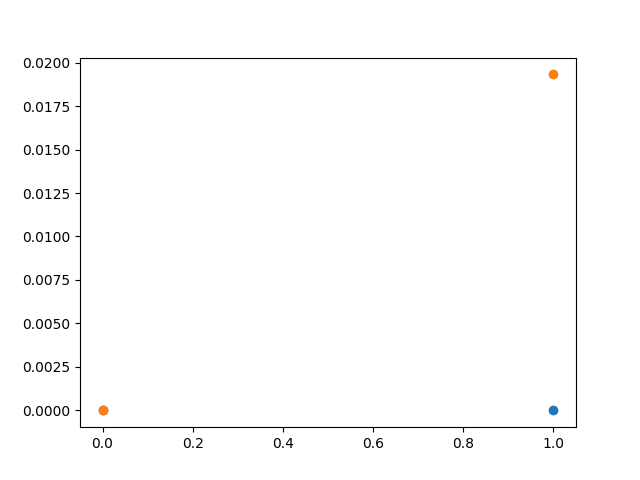
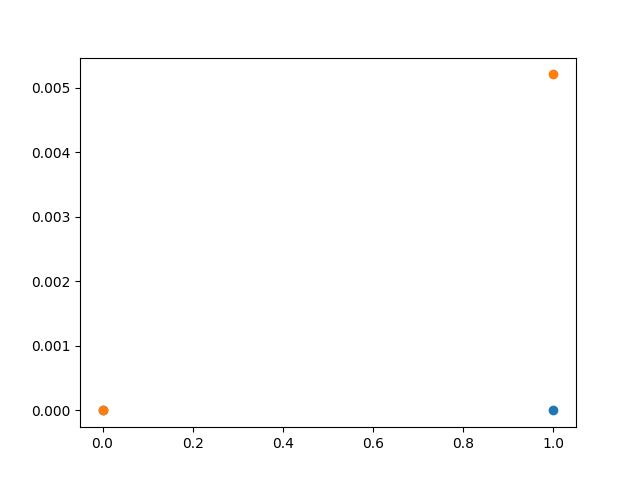
energy diff: at least imaginary part is 0

diff --git a/system.py b/system.py
@@ -193,14 +193,13 @@ class System():
         D_complex_energy+= self.A_integrals[index+index-i-j]*old_field_coeffs[i].conjugate()*old_field_coeffs[j].conjugate()*diff*diff
         D_complex_energy+= self.A_integrals[i+j-index-index]*old_field_coeffs[i]*old_field_coeffs[j]*diff.conjugate()*diff.conjugate()
       #1-variable sum parts
-      D_complex_energy += self.A_integrals[index+index-index-i]*old_field_coeffs[i].conjugate()*(new_field_coeff*new_field_coeff.conjugate()*(2*new_field_coeff-4*old_field_coeff)+old_field_coeff.conjugate()*(4*old_field_coeff*old_field_coeff-2*new_field_coeff*new_field_coeff))
-      D_complex_energy+= self.A_integrals[index+i-index-index]*old_field_coeffs[i]*(new_field_coeff*new_field_coeff.conjugate()*(3*new_field_coeff.conjugate()-4*old_field_coeff.conjugate())+new_field_coeff*(4*old_field_coeff.conjugate()*old_field_coeff.conjugate()-2*new_field_coeff.conjugate()*new_field_coeff.conjugate()))
+      D_complex_energy += self.A_integrals[i+index-index-index] * old_field_coeffs[i] *(2*new_field_coeff.conjugate()**2*diff + (old_field_coeff*old_field_coeff.conjugate() - 4* new_field_coeff * old_field_coeff.conjugate())*diff.conjugate())
+      D_complex_energy += self.A_integrals[index+index-i-index] * old_field_coeffs[i].conjugate() *(2*new_field_coeff**2*diff + (old_field_coeff*old_field_coeff.conjugate() - 4* new_field_coeff.conjugate() * old_field_coeff)*diff)
     #the point (index,index,index,index) 
     #corrected from previous + the all-updated point
-    D_complex_energy+=self.A_integrals[0]*(3*old_field_coeff**2*old_field_coeff.conjugate()**2 + new_field_coeff*new_field_coeff.conjugate()*(-2*new_field_coeff.conjugate()*old_field_coeff -2* new_field_coeff*old_field_coeff.conjugate()+ new_field_coeff*new_field_coeff.conjugate()))
+    D_complex_energy+=self.A_integrals[0]*(5*old_field_coeff**2*old_field_coeff.conjugate()**2 + new_field_coeff**2*new_field_coeff.conjugate()**2 -2*new_field_coeff*new_field_coeff.conjugate()*(old_field_coeff*diff.conjugate()+ old_field_coeff.conjugate()*diff)+old_field_coeff.conjugate()**2 * new_field_coeff*(new_field_coeff-4*old_field_coeff)+old_field_coeff**2 * new_field_coeff.conjugate()*(new_field_coeff.conjugate()-4*old_field_coeff.conjugate()))
     try:
-      
-      assert (math.isclose(D_complex_energy.imag, 0, abs_tol=1e-7))
+      assert (math.isclose(D_complex_energy.imag, 0, abs_tol=1e-5))
     except AssertionError:
       print(D_complex_energy.imag)
       raise(AssertionError)

diff --git a/tests/test_system.py b/tests/test_system.py
@@ -203,7 +203,7 @@ class Test_Calc_Energy(unittest.TestCase):
     :return:
     """
     num_field_coeffs = 3
-    field_coeffs = dict([(i, complex(random.uniform(-1, 1), random.uniform(-1, 1))) for i in
+    field_coeffs = dict([(i, run.rand_complex()) for i in
                            range(-1 * num_field_coeffs, num_field_coeffs + 1)])
     amplitude = 0.1
     sys_zeroC = system.System(radius=1, wavenumber=1, gamma=1, kappa=1, alpha=-1, C=0, u=1, n=1)
@@ -212,7 +212,30 @@ class Test_Calc_Energy(unittest.TestCase):
     self.assertGreater(energy_C, energy_0C)
 
 class Test_Energy_Diff(unittest.TestCase):
-  pass
+  def setUp(self):
+    self.sys_basic = system.System(radius=1, wavenumber=1, gamma=1, kappa=1, alpha=-1, C=1, u=1, n=1)
+
+  def test_calc_energy_diff_singlecoefftozero(self):
+    num_field_coeffs =0
+    field_coeffs = dict([(i, run.rand_complex()) for i in
+                           range(-1 * num_field_coeffs, num_field_coeffs + 1)])
+    amplitude = 0 
+    energy_before = self.sys_basic.calc_field_energy(field_coeffs, amplitude, amplitude_change=True)
+    index = 0
+    #new field coeffs with one value (c_1) changed to a different random complex value
+    new_field_coeffs = copy.copy(field_coeffs)
+    new_field_coeff = 0+0j
+    new_field_coeffs[index] = new_field_coeff
+    assert(field_coeffs[index]!=new_field_coeffs[index])
+    energy_after_diff =  self.sys_basic.calc_field_energy_diff(index, new_field_coeff, field_coeffs, amplitude)
+    energy_after =  self.sys_basic.calc_field_energy(new_field_coeffs, amplitude, amplitude_change=False)
+    self.assertEqual(energy_after, 0)
+    self.assertEqual(energy_after_diff, 0)
+
+  def test_calc_energy_diff(self):
+    num_field_coeffs =1
+    field_coeffs = dict([(i, complex(random.uniform(-1, 1), random.uniform(-1, 1))) for i in
+                           range(-1 * num_field_coeffs, num_field_coeffs + 1)])
 
 if __name__ == '__main__':
-    unittest.main()
+  unittest.main()

diff --git a/tests/test_metropolis_engine.py b/tests/test_metropolis_engine.py
@@ -13,7 +13,7 @@ class TestMetropolisSteps(unittest.TestCase):
     self.me = metropolis_engine.MetropolisEngine( num_field_coeffs=3)
     self.sys_basic = system.System(radius=1, wavenumber=1, kappa=1, gamma=1, alpha=-1, u=1, C=1, n=1)
 
-def tearDown(self):
+  def tearDown(self):
     pass
   
   def test_init_sampling_widths_float(self):
